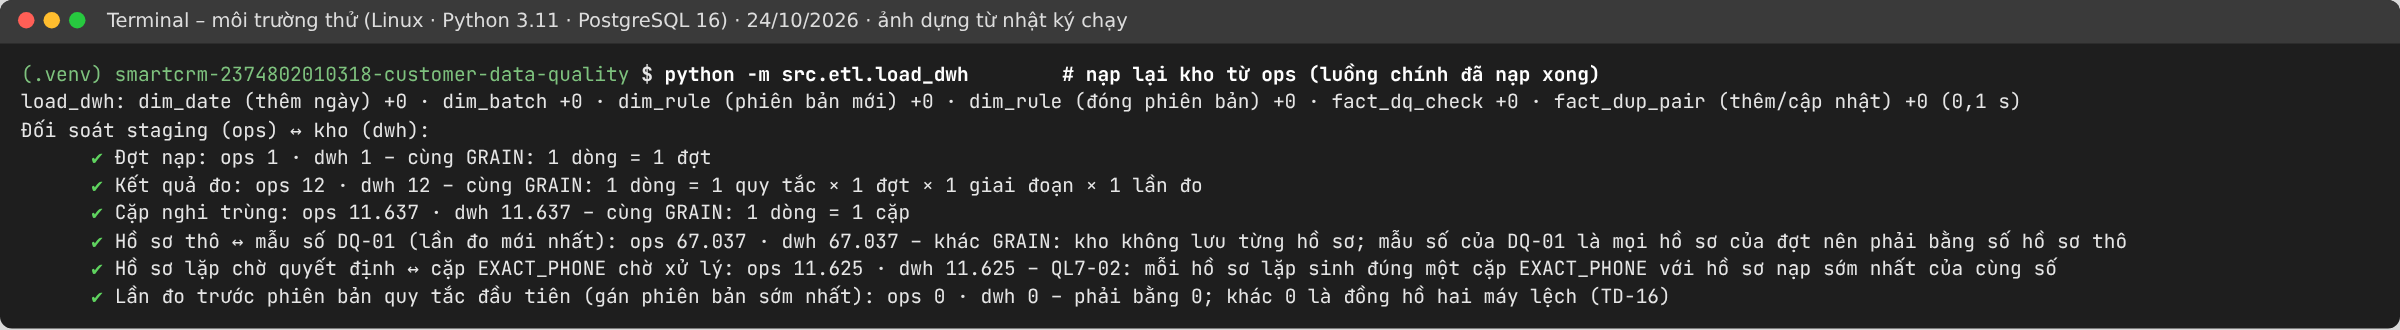
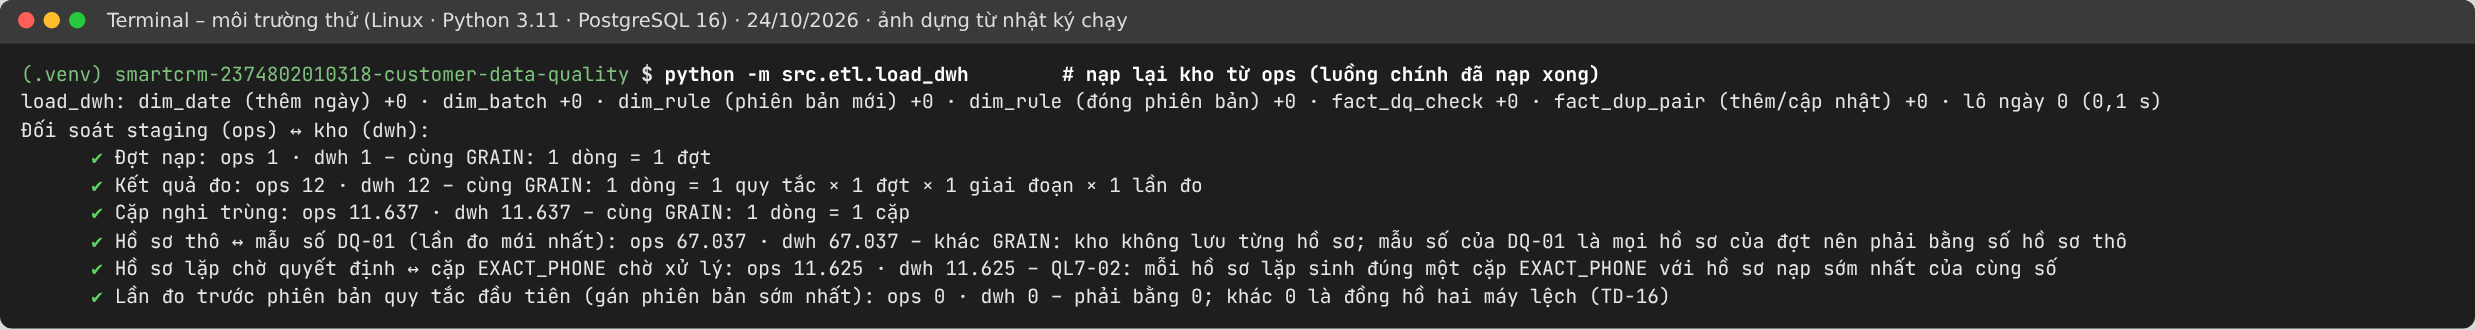
docs: chụp lại ảnh minh chứng sau lần thử clone mới cuối, cập nhật số đo NFR-01 phần 2 và NFR-06
Claude-Session: https://claude.ai/code/session_01UKLpC2aRjkry73Xz8DZtNV

diff --git a/docs/sprint2/README.md b/docs/sprint2/README.md
@@ -5,17 +5,17 @@
 | Tệp | Nội dung | Mục kiểm chứng buổi 10 |
 |---|---|---|
 | `ket-qua-toan-luong.png` | Bước 9: `python -m src.pipeline --tep data/raw/customers_raw.csv` – 5 bước, đối soát staging ↔ kho 6/6 ✔, mã thoát 0 | Luồng chính end-to-end trên dữ liệu thật; đếm dòng staging và fact |
-| `ket-qua-nap-lai.png` | `python -m src.etl.load_dwh` sau luồng chính: mọi bảng `+0`, đối soát vẫn khớp | Nạp lần hai không nhân đôi dòng |
-| `ket-qua-pytest.png` | `python -m pytest -q` → `79 passed`; danh sách 33 test của Sprint 2 và test tích hợp | ≥ 5 unit test pass, có test biên và luồng ngoại lệ |
+| `ket-qua-nap-lai.png` | `python -m src.etl.load_dwh` sau luồng chính: mọi bảng `+0`, `lô ngày 0`, đối soát vẫn khớp | Nạp lần hai không nhân đôi dòng |
+| `ket-qua-pytest.png` | `python -m pytest -q` → `94 passed`; danh sách 48 test của Sprint 2 và test tích hợp | ≥ 5 unit test pass, có test biên và luồng ngoại lệ |
 | `ket-qua-nfr01.png` | 3 lần chạy mẫu 8.000 dòng, mỗi lần một CSDL mới (trích các dòng có số đo) | NFR-01 phần 2 |
 | `dashboard-k1.png` | K1 – đường chỉ số mức độ sạch TRƯỚC/SAU, mốc 90 · Tốt và 75 · Kém, dòng ghi nguồn | Biểu đồ gắn câu hỏi Q2, có mốc tham chiếu |
-| `dashboard-k2.png` | K2 – tỉ lệ đạt theo quy tắc, vạch ngưỡng đạt, điểm bị mất | Biểu đồ gắn câu hỏi Q3 |
-| `dashboard-k3.png` | K3 – cặp nghi trùng theo khoảng điểm và trạng thái, mốc ngưỡng 85 | Biểu đồ gắn câu hỏi Q4, Q5 |
-| `dashboard-rong.png` | Người xem `ql.mm001` (Quản lý cửa hàng MM001): bộ lọc rỗng, có câu giải thích vì sao và nên làm gì | Trạng thái rỗng (QT-14) |
+| `dashboard-k2.png` | K2 – hai biểu đồ: tỉ lệ đạt theo quy tắc (vạch ngưỡng đạt) và điểm bị mất từng quy tắc (đường 10 điểm) | Biểu đồ gắn câu hỏi Q3 |
+| `dashboard-k3.png` | K3 – thẻ theo trạng thái (Q4); số cặp theo khoảng điểm, tách EXACT_PHONE / FUZZY, mốc ngưỡng 85 (Q5) | Biểu đồ gắn câu hỏi Q5 |
+| `dashboard-rong.png` | Người xem `ql.mm001` (Quản lý cửa hàng MM001): có đợt nạp trong khoảng ngày nhưng thuộc đơn vị khác – câu giải thích nói đúng nguyên nhân và việc nên làm | Trạng thái rỗng (QT-14) |
 | `dashboard-loi.png` | CSDL không kết nối được: thông báo không lộ chuỗi kết nối, nút Thử lại | Trạng thái lỗi |
 | `bao-cao-uc1-uc3-dot-1.md` | Báo cáo số đếm của lần chạy trong `ket-qua-toan-luong.png` | Đầu vào – đầu ra quan sát được |
 | `thu-clone-moi.txt` | Nhật ký thử clone mới, làm đúng 12 bước README mục 3 | Đã thử clone vào thư mục mới |
 
 Trạng thái đang tải là spinner "Đang tải dữ liệu từ kho dữ liệu…", chỉ hiện trong khoảng 1 – 3 giây nên không chụp.
 
-**NFR-06:** trang dashboard hiện đủ 3 biểu đồ trong 3,8 giây (lớn nhất của 3 lần, 1 đợt nạp) và 3,7 giây (24 đợt nạp mẫu 8.000 dòng, nạp vào một CSDL riêng để đo). Ngưỡng là ≤ 5 giây. Mỗi lần đo tính từ lúc mở trang tới khi đủ 3 biểu đồ, lần đầu tiên là lúc bộ đệm còn rỗng.
+**NFR-06:** trang dashboard hiện đủ 4 biểu đồ trong 4,1 giây với 1 đợt nạp và 4,1 giây với 24 đợt nạp mẫu 8.000 dòng (nạp vào một CSDL riêng để đo); lấy giá trị lớn nhất của 3 lần, lần đầu là lúc bộ đệm còn rỗng. Ngưỡng ≤ 5 giây.

diff --git a/docs/sprint2/bao-cao-uc1-uc3-dot-1.md b/docs/sprint2/bao-cao-uc1-uc3-dot-1.md
@@ -1,7 +1,7 @@
 # Báo cáo UC1 – đợt nạp 1
 
[1 lines of base64/hex data omitted]
-- Đơn vị nguồn: TONG_HOP · Người nạp: my.marketing · Bắt đầu: 2026-10-24T01:25:19
+- Đơn vị nguồn: TONG_HOP · Người nạp: my.marketing · Bắt đầu: 2026-10-24T01:48:42
 - Ghi CSDL: có
 
 ## 1. Extract – 67.037 dòng × 6 cột
@@ -47,7 +47,7 @@ Tệp hồ sơ lỗi kèm lý do: `data/processed/ho_so_loi_dot_1.csv` (có dữ
 
 ## 4. UC3 – phát hiện cặp nghi trùng (FR-04)
 
-- Hồ sơ có số hợp lệ tham gia so khớp: 62.904 (51.279 số khác nhau); cặp ứng viên sau blocking (giữa hồ sơ đại diện của hai số khác nhau): 483.124; ngưỡng FUZZY 85.
+- Hồ sơ tham gia so khớp: 62.904 hồ sơ có số hợp lệ (51.279 số khác nhau); cặp ứng viên sau blocking (giữa hồ sơ đại diện của hai số khác nhau): 483.124; ngưỡng FUZZY 85.
 - Cặp mới: EXACT_PHONE 11.625 · FUZZY 12.
 
 ## 5. Nạp kho và đối soát staging (ops) ↔ kho (dwh)
@@ -65,8 +65,8 @@ Tệp hồ sơ lỗi kèm lý do: `data/processed/ho_so_loi_dot_1.csv` (có dữ
 
 | Bước | Giây |
 |---|---:|
-| extract | 3,95 |
-| transform | 5,32 |
-| dq_evaluate | 0,13 |
+| extract | 4,22 |
+| transform | 5,13 |
+| dq_evaluate | 0,15 |
 | load_dwh | 0,01 |
-| match | 7,38 |
+| match | 7,44 |
